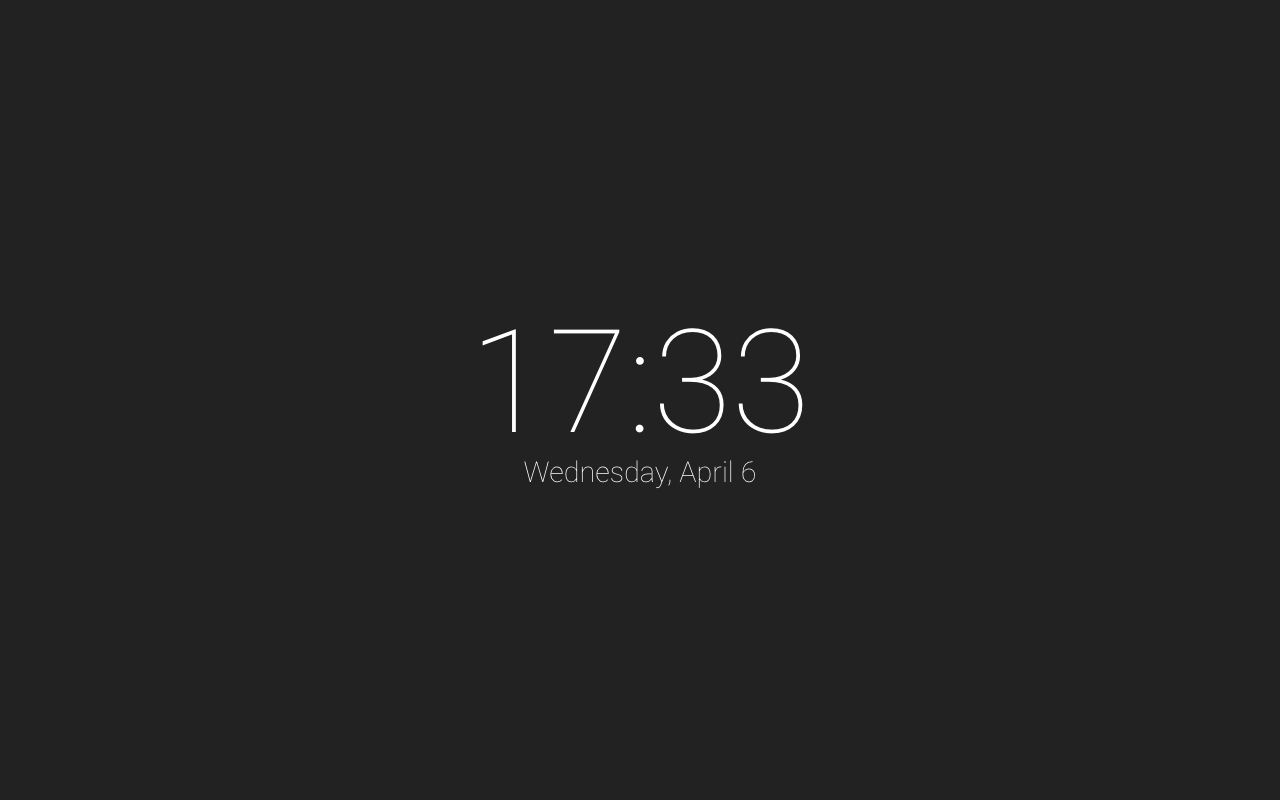
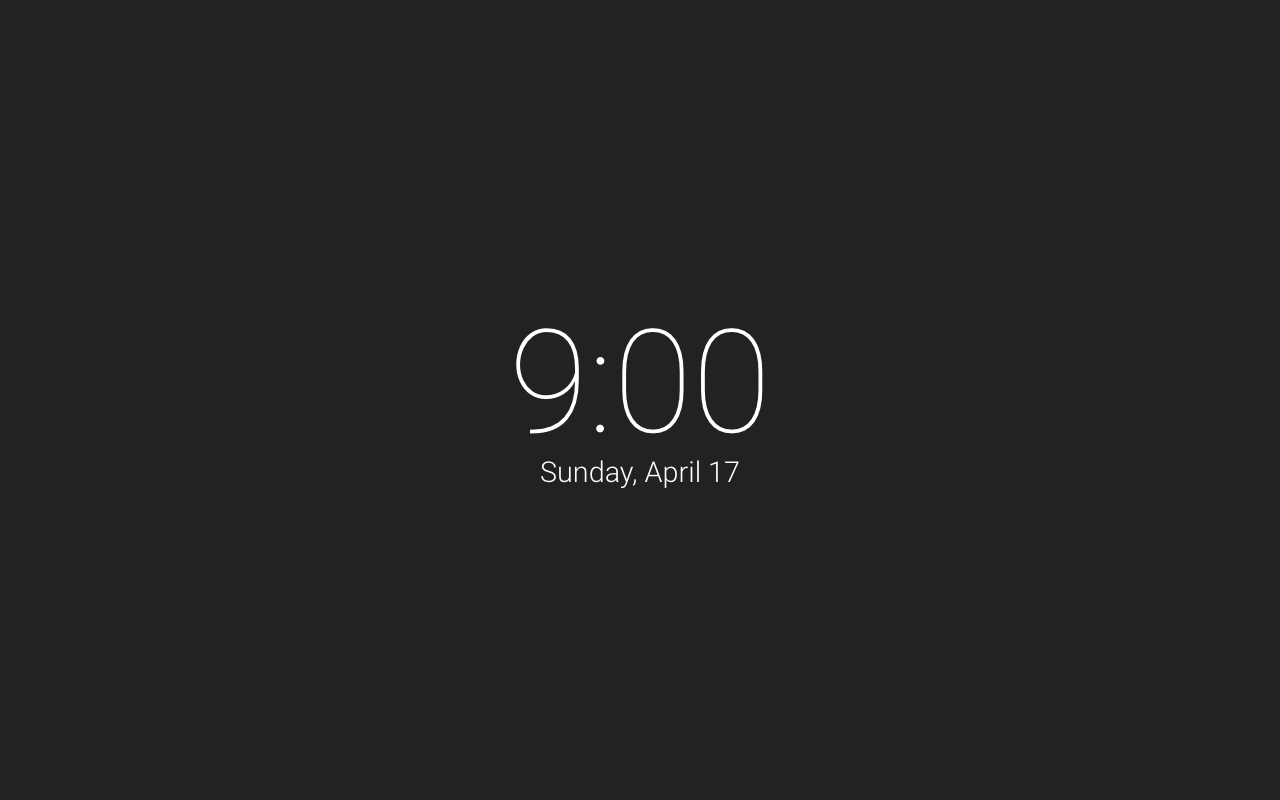
Proper font weight on date

Changed region(s): [[0.375, 0.4062, 0.625, 0.625]]

diff --git a/newtab.css b/newtab.css
@@ -1,13 +1,21 @@
 @font-face {
     font-family: 'Roboto';
     font-style: normal;
+    font-weight: 300;
+    src: local('Roboto Light'), local('Roboto-Light'), url(Roboto-Light.woff2) format('woff2');
+    unicode-range: U+0000-00FF;
+}
+@font-face {
+    font-family: 'Roboto';
+    font-style: normal;
     font-weight: 100;
-    src: local('Roboto Thin'), local('Roboto-Thin'), url(Roboto.woff2) format('woff2');
+    src: local('Roboto Thin'), local('Roboto-Thin'), url(Roboto-Thin.woff2) format('woff2');
     unicode-range: U+0000-00FF;
 }
 html, body { height: 100%; }
 body {
     font-family: 'Roboto', sans-serif;
+    font-weight: 300;
     margin: 0;
     overflow: hidden;
     display: flex;
@@ -23,13 +31,14 @@ body {
 #clock {
     font-size: 12em;
     line-height: 1;
+    font-weight: 100;
 }
 #date {
     font-size: 2.4em;
 }
 .light { background: white; }
-.light #clock { color: #333; }
-.light #date { color: black; }
+.light #clock,
+.light #date { color: #333; }
 
 .dark { background: #333; }
 .dark #clock,

diff --git a/options.css b/options.css
@@ -3,7 +3,6 @@
 }
 p, select {
     font-size: 1.3em;
-    font-weight: bolder;
     display: inline-block;
 }
 .switch {
@@ -88,7 +87,7 @@ section {
 }
 .checkbox p {
     margin-left: 12px;
-    margin-top: 6px;
+    margin-top: 7px;
 }
 .select,
 select {
@@ -102,7 +101,6 @@ select {
     opacity: .5;
 }
 select {
-    font-weight: bold;
     outline: 0;
     border: 0;
     background: 0;
@@ -114,9 +112,9 @@ select {
 .light .switch label:before,
 .light .switch label:after { background: #333; }
 .light .checkbox label { background: white; }
-.light div { border-color: #333; }
+.light div,
 .light .checkbox label { border-color: #333; }
-.light select { color: #333; }
+.light select,
 .light p { color: #333; }
 
 .night .switch label:before,
